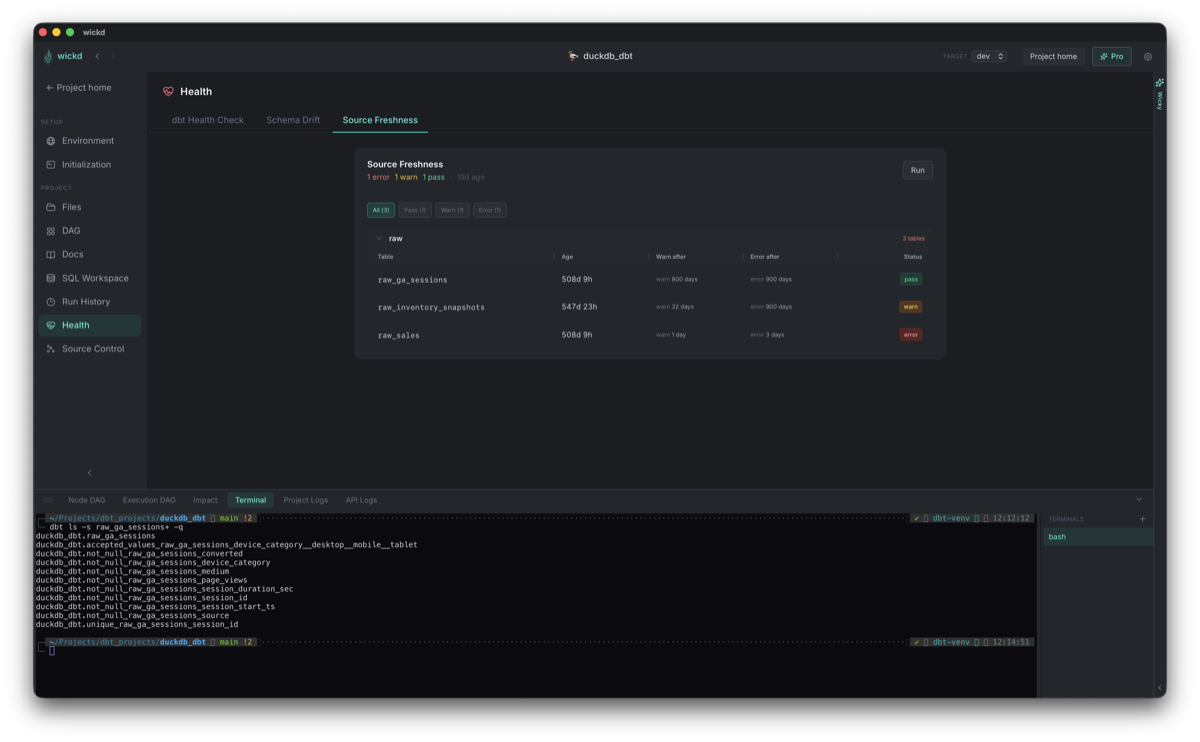
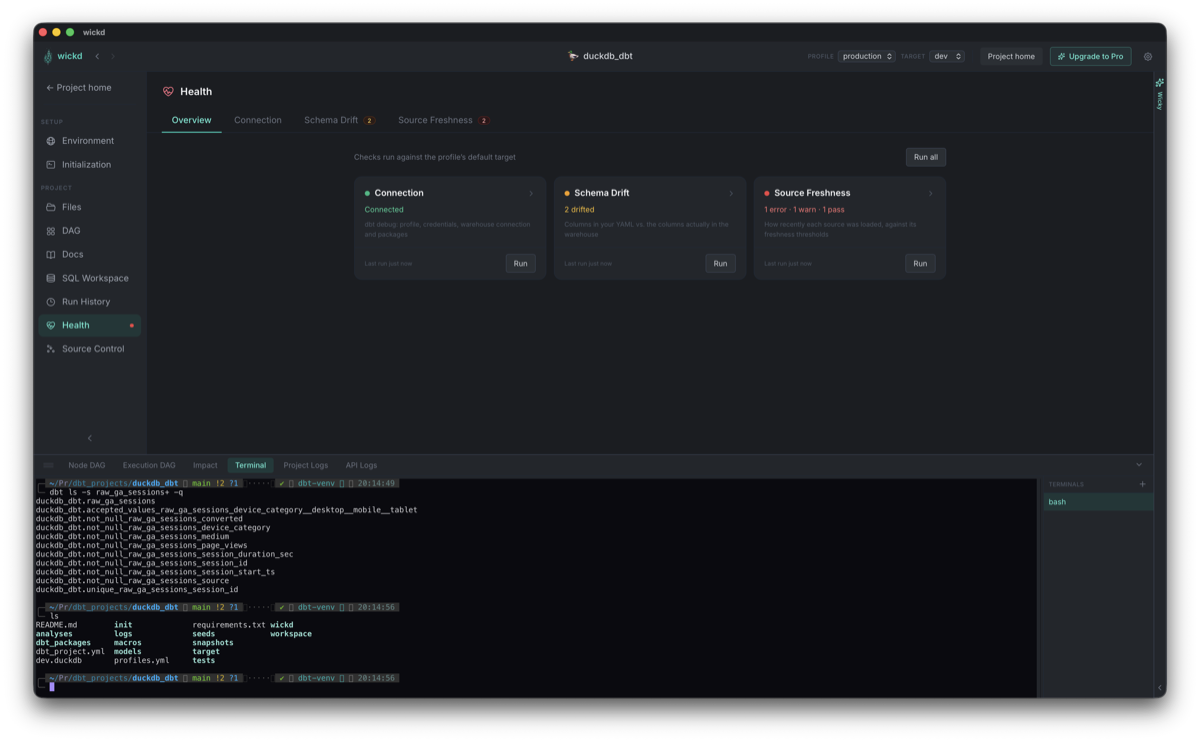
updating screenshots

diff --git a/tools/wickd/index.html b/tools/wickd/index.html
@@ -635,7 +635,7 @@
       <div class="feature">
         <span class="num">06</span>
         <h3>Health &amp; drift checks</h3>
-        <p>Run dbt debug for a structured pass/fail table, or scan for schema drift between your warehouse and manifest.json — both from the same window.</p>
+        <p>One overview for your connection (dbt debug), schema drift between your warehouse and manifest.json, and source freshness — run them all in one click, see what's out of date, and fix drifted models in place.</p>
       </div>
       <div class="feature">
         <span class="num">07</span>
@@ -725,6 +725,10 @@
         <img src="../../assets/img/project_home_wicky_1200.png" loading="lazy" alt="wickd project home page with Wicky, the local AI assistant, summarising the project">
         <div class="gallery-cap">Project home &amp; Wicky (Pro)</div>
       </div>
+      <div class="gallery-item" data-full="../../assets/img/init_pipeline_2400.png" data-cap="Initialization — pip install, dbt deps and your own setup scripts as one pipeline, with Wicky (Pro) alongside">
+        <img src="../../assets/img/init_pipeline_1200.png" loading="lazy" alt="wickd Initialization page: setup steps connected by a flowing pipeline, with Wicky open on the right">
+        <div class="gallery-cap">Init pipeline</div>
+      </div>
       <div class="gallery-item" data-full="../../assets/img/docs_2400.png" data-cap="Native docs browser — columns, descriptions, tests, lineage, all searchable">
         <img src="../../assets/img/docs_1200.png" loading="lazy" alt="wickd native docs browser showing model detail">
         <div class="gallery-cap">Docs browser</div>
@@ -737,8 +741,8 @@
         <img src="../../assets/img/run_history_1200.png" loading="lazy" alt="wickd run history with per-node results and the execution DAG">
         <div class="gallery-cap">Run history</div>
       </div>
-      <div class="gallery-item" data-full="../../assets/img/health_2400.png" data-cap="Health — dbt debug, schema drift, and source freshness against warn/error thresholds">
-        <img src="../../assets/img/health_1200.png" loading="lazy" alt="wickd Health page showing source freshness, with a terminal open below">
+      <div class="gallery-item" data-full="../../assets/img/health_2400.png" data-cap="Health — one overview of your connection, schema drift, and source freshness, with Run all">
+        <img src="../../assets/img/health_1200.png" loading="lazy" alt="wickd Health overview with connection, schema drift and source freshness cards, and a terminal open below">
         <div class="gallery-cap">Health checks</div>
       </div>
       <div class="gallery-item" data-full="../../assets/img/light_theme_2400.png" data-cap="Light theme — the whole app, not just a dark mode afterthought">
